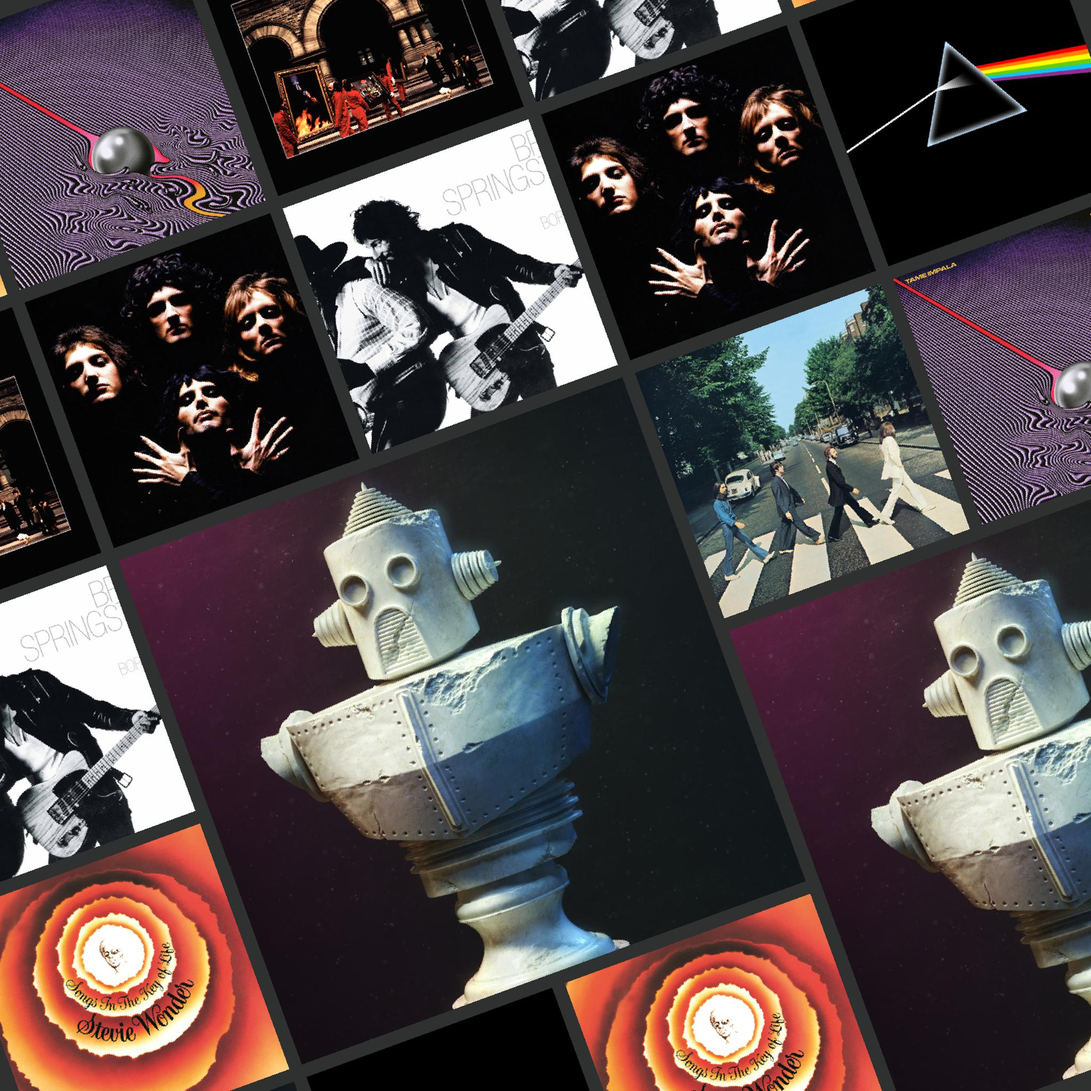
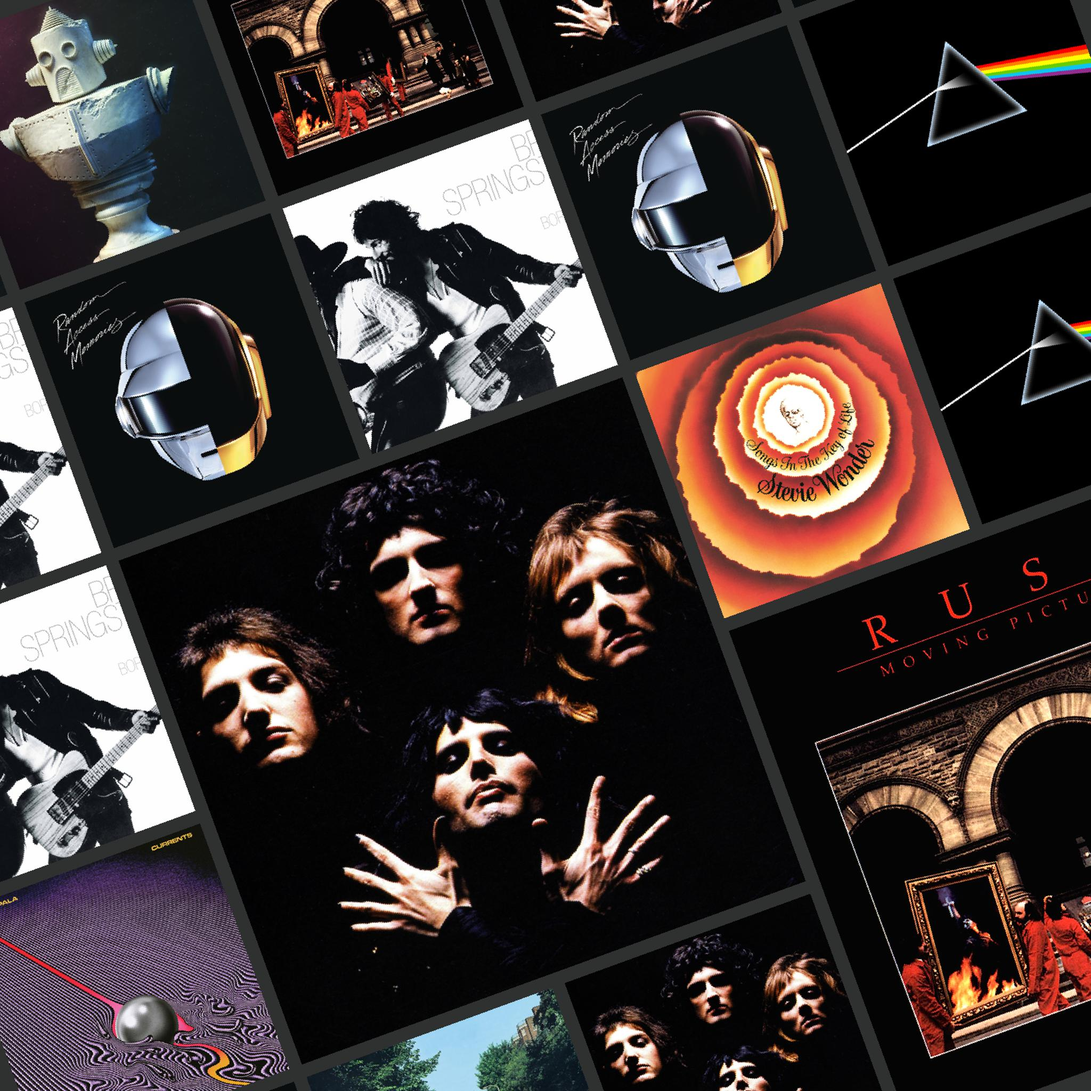
Adjusted readme and added better type hints

diff --git a/spotify_covergen/utils.py b/spotify_covergen/utils.py
@@ -1,4 +1,5 @@
 from PIL import Image
+from typing import Generator, Tuple
 
 def centered_resize(image: Image, size: (int, int)) -> Image:
     """
@@ -37,7 +38,9 @@ def zoom_in(image: Image, zoom_level: float) -> Image:
 
     return cropped.resize((old_width, old_height))
 
-def pick_large_img_locs(num_cols: int, num_rows: int, num_large_imgs: int):
-    """A generator for (x, y) tuples indicating where large 2x2 images should be placed in an image"""
+def pick_large_img_locs(num_cols, num_rows, num_large_imgs) -> Generator[Tuple[int, int], None, None]:
+    """
+    A generator for (x, y) tuples indicating where large 2x2 images should be placed in an image
+    """
     yield (1, 2)
     yield (3, 3)

diff --git a/spotify_covergen/cover_generator.py b/spotify_covergen/cover_generator.py
@@ -15,7 +15,7 @@ from utils import centered_resize, zoom_in, pick_large_img_locs
 
 # Settings
 IN_FOLDER = "../images"
-OUT_FOLDER = "../processed-images"
+OUT_FOLDER = ".."
 FILE_FORMATS = ["jpg", "png"]
 BG_COLOR = "#2f3030"
 NUM_COLS = 5
@@ -64,4 +64,4 @@ playlist_cover = playlist_cover.rotate(IMAGE_TILT, fillcolor=BG_COLOR)
 playlist_cover = zoom_in(playlist_cover, 1.2)
 
 # Save the final Spotify album cover.
-playlist_cover.save(f"{OUT_FOLDER}/test.jpg")
+playlist_cover.save(f"{OUT_FOLDER}/sample-cover.jpg")

diff --git a/README.md b/README.md
@@ -1,2 +1,3 @@
-# spotify-covergen
+# 💿 Spotify CoverGen
+![Sample Playlist Cover](./sample-cover.jpg)
 Create stylish covers for your Spotify playlists
